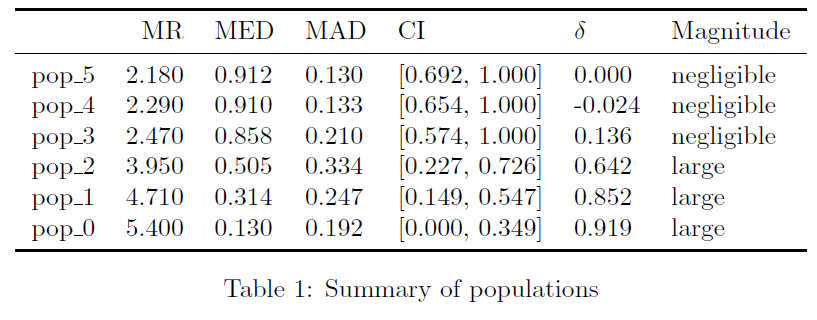
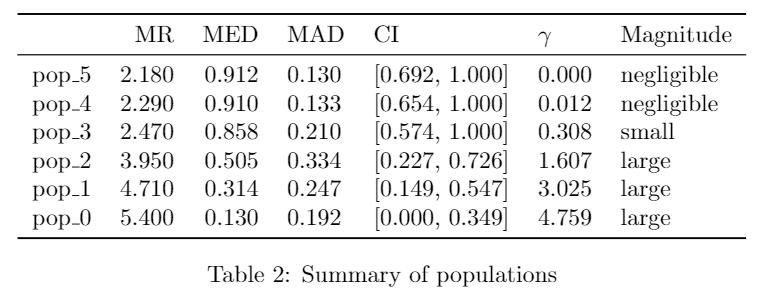
Automated deployment: Wed Dec  2 09:49:45 UTC 2020 9430397a4d44868abc56608e114c1d5536437497

diff --git a/index.html b/index.html
@@ -214,12 +214,13 @@ on the normality of the data.
 - If there are more than two populations and at least one populations is not normal or the populations are
   heteroscedastic, we use Friedman's test with the Nemenyi post-hoc test.</p>
 <h3 id="bayesian-tests-2017-guidelines">Bayesian Tests (2017 Guidelines)</h3>
-<p>For the Bayesian approach, we can use the Bayesian Signed Rank test, which makes no assumptions on the data. The critial
-aspect of this test is the Region Of Practical Equivalence (ROPE) that defines when differences are practically
+<p>For the Bayesian approach, we can use the Bayesian Signed Rank test, which makes no assumptions on the data. The
+critical aspect of this test is the Region Of Practical Equivalence (ROPE) that defines when differences are practically
 irrelevant. If not configured otherwise, autorank determines the ROPE as follows. 
 - For normal data, the ROPE is defined as 0.1<em>d, where d is the effect size (Cohen's d). 
 - For non-normal data, the ROPE is defined as 0.1</em>gamma, where gamma is the effect size (Akinshin's gamma).</p>
-<p>This follows <a href="">Kruschke, 2019</a>, who suggest to determine the ROPE as half the size of a small effect. Since a small
+<p>This follows <a href="https://doi.org/10.3758/s13423-016-1221-4">Kruschke and Liddell, 2018</a>, who suggest to determine the ROPE
+as half the size of a small effect. Since a small
 effect with Cohen's d is 0.2, this means that a ROPE of 0.1*d translates to a considering all differences that are not
 even half of a small effect as practically equivalent. The same concept is applied with Akinshin's gamma, which is a
 direct translation of the concept of Cohen's d to robust statistics based on the median absolute deviation instead
@@ -262,19 +263,72 @@ pop_3      2.47  0.858091  0.210394  0.573879         1       0.1364   negligibl
 pop_2      3.95  0.505057  0.333594  0.227184   0.72558       0.6424        large
 pop_1      4.71  0.313824  0.247339  0.149473  0.546571       0.8516        large
 pop_0      5.40  0.129756  0.192377         0  0.349014       0.9192        large
-pvalue=2.3412212612346733e-28,
-cd=1.0662484349869374,
-omnibus='friedman',
-posthoc='nemenyi',
-all_normal=False,
+pvalue=2.3412212612346733e-28
+cd=1.0662484349869374
+omnibus='friedman'
+posthoc='nemenyi'
+all_normal=False
 pvals_shapiro=[1.646607051952742e-05, 0.0605173334479332, 0.13884511590003967, 0.00010030837438534945,
-               2.066387423838023e-06, 1.5319776593969436e-06],
-homoscedastic=True,
-pval_homogeneity=0.2663177301695518,
-homogeneity_test='levene')
-alpha=0.05, 
-alpha_normality=0.008333333333333333, 
-num_samples=50)
+               2.066387423838023e-06, 1.5319776593969436e-06]
+homoscedastic=True
+pval_homogeneity=0.2663177301695518
+homogeneity_test='levene'
+alpha=0.05
+alpha_normality=0.008333333333333333 
+num_samples=50
+posterior_matrix=
+None
+decision_matrix=
+None
+rope=None
+rope_mode=None
+effect_size=akinshin_gamma)
+</code></pre>
+<p>By default, autorank performs a frequentist analysis. If you want to conduct a Bayesian analysis, you simple have to
+define this in the call of the <code>autorank</code> function. Please not that the Bayesian analysis is computationally expensive,
+so do not worry if this requires a couple of seconds (or in case of many populations, even minutes). </p>
+<pre><code class="language-python">result_bayesian = autorank(data, alpha=0.05, verbose=False, approach='bayesian')
+</code></pre>
+<p>Output:</p>
+<pre><code>RankResult(rankdf=
+         median       mad  ci_lower  ci_upper effect_size   magnitude  p_equal  p_smaller      decision
+pop_5  0.912005  0.130461  0.605547         1           0  negligible      NaN        NaN            NA 
+pop_4  0.910437  0.132786   0.63089         1   0.0119148  negligible      0.0    0.66490  inconclusive 
+pop_3  0.858091  0.210394  0.545962         1    0.307991       small      0.0    0.81552  inconclusive  
+pop_2  0.505057  0.333594  0.181309  0.744055     1.60669       large      0.0    1.00000       smaller 
+pop_1  0.313824  0.247339  0.106464  0.590593     3.02519       large      0.0    1.00000       smaller 
+pop_0  0.129756  0.192377         0   0.42154     4.75934       large      0.0    1.00000       smaller
+pvalue=None
+cd=None
+omnibus=bayes
+posthoc=bayes
+all_normal=False
+pvals_shapiro=[1.646607051952742e-05, 0.0605173334479332, 0.13884511590003967, 0.00010030837438534945, 2.066387423838023e-06, 1.5319776593969436e-06]
+homoscedastic=None
+pval_homogeneity=None
+homogeneity_test=None
+alpha=0.05
+alpha_normality=0.008333333333333333
+num_samples=50
+posterior_matrix=
+      pop_5                  pop_4                    pop_3            pop_2                    pop_1                    pop_0 
+pop_5   NaN  (0.6649, 0.0, 0.3351)  (0.81552, 0.0, 0.18448)  (1.0, 0.0, 0.0)          (1.0, 0.0, 0.0)          (1.0, 0.0, 0.0)  
+pop_4   NaN                    NaN  (0.80308, 0.0, 0.19692)  (1.0, 0.0, 0.0)          (1.0, 0.0, 0.0)          (1.0, 0.0, 0.0) 
+pop_3   NaN                    NaN                      NaN  (1.0, 0.0, 0.0)          (1.0, 0.0, 0.0)          (1.0, 0.0, 0.0)
+pop_2   NaN                    NaN                      NaN              NaN  (0.99538, 0.0, 0.00462)          (1.0, 0.0, 0.0)  
+pop_1   NaN                    NaN                      NaN              NaN                      NaN  (0.99938, 0.0, 0.00062)
+pop_0   NaN                    NaN                      NaN              NaN                      NaN                      NaN
+decision_matrix=
+              pop_5         pop_4         pop_3    pop_2    pop_1    pop_0
+pop_5           NaN  inconclusive  inconclusive  smaller  smaller  smaller
+pop_4  inconclusive           NaN  inconclusive  smaller  smaller  smaller
+pop_3  inconclusive  inconclusive           NaN  smaller  smaller  smaller
+pop_2        larger        larger        larger      NaN  smaller  smaller
+pop_1        larger        larger        larger   larger      NaN  smaller
+pop_0        larger        larger        larger   larger   larger      NaN
+rope=0.1
+rope_mode=effsize
+effect_size=akinshin_gamma)
 </code></pre>
 <p>You can go ahead and use this tuple to create your own report about the statistical analysis. Alternatively, you can use
 autorank for this task.  </p>
@@ -299,7 +353,7 @@ statistically significant difference between the median values of the population
 Based on the post-hoc Nemenyi test, we assume that there are no significant differences within the following groups: 
 pop_5, pop_4, and pop_3; pop_2 and pop_1; pop_1 and pop_0. All other differences are significant.
 </code></pre>
-<p>Our you could use Autorank to generate a plot that visualizes the statistical analysis. Autorank creates plots of the
+<p>Or you could use Autorank to generate a plot that visualizes the statistical analysis. Autorank creates plots of the
 confidence interval in case of the paired t-test and repeated measures ANOVA and a critical distance diagram for the
 post-hoc Nemenyi test. </p>
 <pre><code class="language-python">plot_stats(result)
@@ -313,16 +367,16 @@ plt.show()
 <p>Output:</p>
 <pre><code>\begin{table}[h]
 \centering
-\begin{tabular}{lrlllll}
+\begin{tabular}{lrrllll}
 \toprule
-{} &amp;    MR &amp;   MED &amp;   MAD &amp;              CI &amp; $\delta$ &amp;   Magnitude \\
+{} &amp;    MR &amp;   MED &amp;   MAD &amp;              CI &amp; $\gamma$ &amp;   Magnitude \\
 \midrule
 pop\_5 &amp; 2.180 &amp; 0.912 &amp; 0.130 &amp;  [0.692, 1.000] &amp;     0.000 &amp;  negligible \\
-pop\_4 &amp; 2.290 &amp; 0.910 &amp; 0.133 &amp;  [0.654, 1.000] &amp;    -0.024 &amp;  negligible \\
-pop\_3 &amp; 2.470 &amp; 0.858 &amp; 0.210 &amp;  [0.574, 1.000] &amp;     0.136 &amp;  negligible \\
-pop\_2 &amp; 3.950 &amp; 0.505 &amp; 0.334 &amp;  [0.227, 0.726] &amp;     0.642 &amp;       large \\
-pop\_1 &amp; 4.710 &amp; 0.314 &amp; 0.247 &amp;  [0.149, 0.547] &amp;     0.852 &amp;       large \\
-pop\_0 &amp; 5.400 &amp; 0.130 &amp; 0.192 &amp;  [0.000, 0.349] &amp;     0.919 &amp;       large \\
+pop\_4 &amp; 2.290 &amp; 0.910 &amp; 0.133 &amp;  [0.654, 1.000] &amp;     0.012 &amp;  negligible \\
+pop\_3 &amp; 2.470 &amp; 0.858 &amp; 0.210 &amp;  [0.574, 1.000] &amp;     0.308 &amp;       small \\
+pop\_2 &amp; 3.950 &amp; 0.505 &amp; 0.334 &amp;  [0.227, 0.726] &amp;     1.607 &amp;       large \\
+pop\_1 &amp; 4.710 &amp; 0.314 &amp; 0.247 &amp;  [0.149, 0.547] &amp;     3.025 &amp;       large \\
+pop\_0 &amp; 5.400 &amp; 0.130 &amp; 0.192 &amp;  [0.000, 0.349] &amp;     4.759 &amp;       large \\
 \bottomrule
 \end{tabular}
 \caption{Summary of populations}
@@ -346,7 +400,8 @@ pip install .
 <h2 id="contributing">Contributing</h2>
 <p>Contributions to Autorank are welcome.</p>
 <ul>
-<li>Just file an <a href="">Issue</a> to ask questions, report bugs, or request new features. </li>
+<li>Just file an <a href="https://github.com/sherbold/autorank/issues">Issue</a> to ask questions, report bugs, or request new
+features. </li>
 <li>Pull requests via GitHub are also welcome.</li>
 </ul>
 <p>Potential contributions include more detailed report generation or the extension of Autorank to more types of data,
@@ -406,5 +461,5 @@ e.g., independent populations, or paired populations with unequal sample sizes. 
 
 <!--
 MkDocs version : 1.1.2
-Build Date UTC : 2020-11-28 14:23:38.400767+00:00
+Build Date UTC : 2020-12-02 09:49:42.014331+00:00
 -->

diff --git a/examples/example_bayesian.py b/examples/example_bayesian.py
@@ -1,0 +1,18 @@
+import numpy as np
+import pandas as pd
+from autorank import autorank, create_report, latex_table
+
+np.random.seed(42)
+pd.set_option('display.max_columns', 10)
+std = 0.3
+means = [0.2, 0.3, 0.5, 0.8, 0.85, 0.9]
+sample_size = 50
+data = pd.DataFrame()
+for i, mean in enumerate(means):
+    data['pop_%i' % i] = np.random.normal(mean, std, sample_size).clip(0, 1)
+
+res = autorank(data, alpha=0.05, verbose=False, approach='bayesian')
+print(res)
+create_report(res)
+latex_table(res)
+
